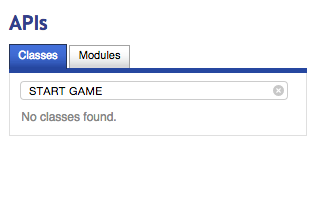
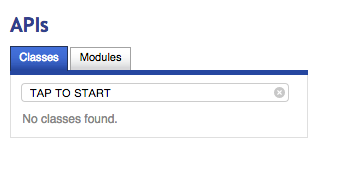
adds start game screen graphic

Changed region(s): [[0.0298, 0.2116, 0.9226, 0.6614], [0.0298, 0.7143, 0.9226, 0.7407], [0.0298, 0.0529, 0.1488, 0.1852]]

diff --git a/js/jump.js b/js/jump.js
@@ -36,6 +36,8 @@ JUMPJS.init = function() {
 
   requestAnimFrame( animate );
 
+  // character
+  
   // create a texture from an image path
   var texture = PIXI.Texture.fromImage("assets/bunny.png");
   // create a new Sprite using the texture
@@ -58,6 +60,19 @@ JUMPJS.init = function() {
 
   JUMPJS.stage.addChild(bunny);
 
+
+
+  // start screen
+  var start_texture = PIXI.Texture.fromImage("assets/START_GAME.png");
+  var startsprite = new PIXI.Sprite(start_texture);
+
+  // move the sprite's anchor point to feet
+  startsprite.anchor.x = 0.5;
+  startsprite.anchor.y = 0.5;
+  startsprite.position.x = JUMPJS.SETTINGS.ipad_dimensions[0]/2;
+  startsprite.position.y = JUMPJS.SETTINGS.ipad_dimensions[1]/2;
+  JUMPJS.stage.addChild(startsprite);
+
   // interaction
   JUMPJS.stage.click = JUMPJS.stage.touchstart = function (event) {
     
@@ -71,6 +86,7 @@ JUMPJS.init = function() {
 
       bunny.running = true;
       GAME_STATE = GAME_STATES.playing;
+      JUMPJS.stage.removeChild(startsprite);
 
     }else if( GAME_STATE == GAME_STATES.end ){
 
